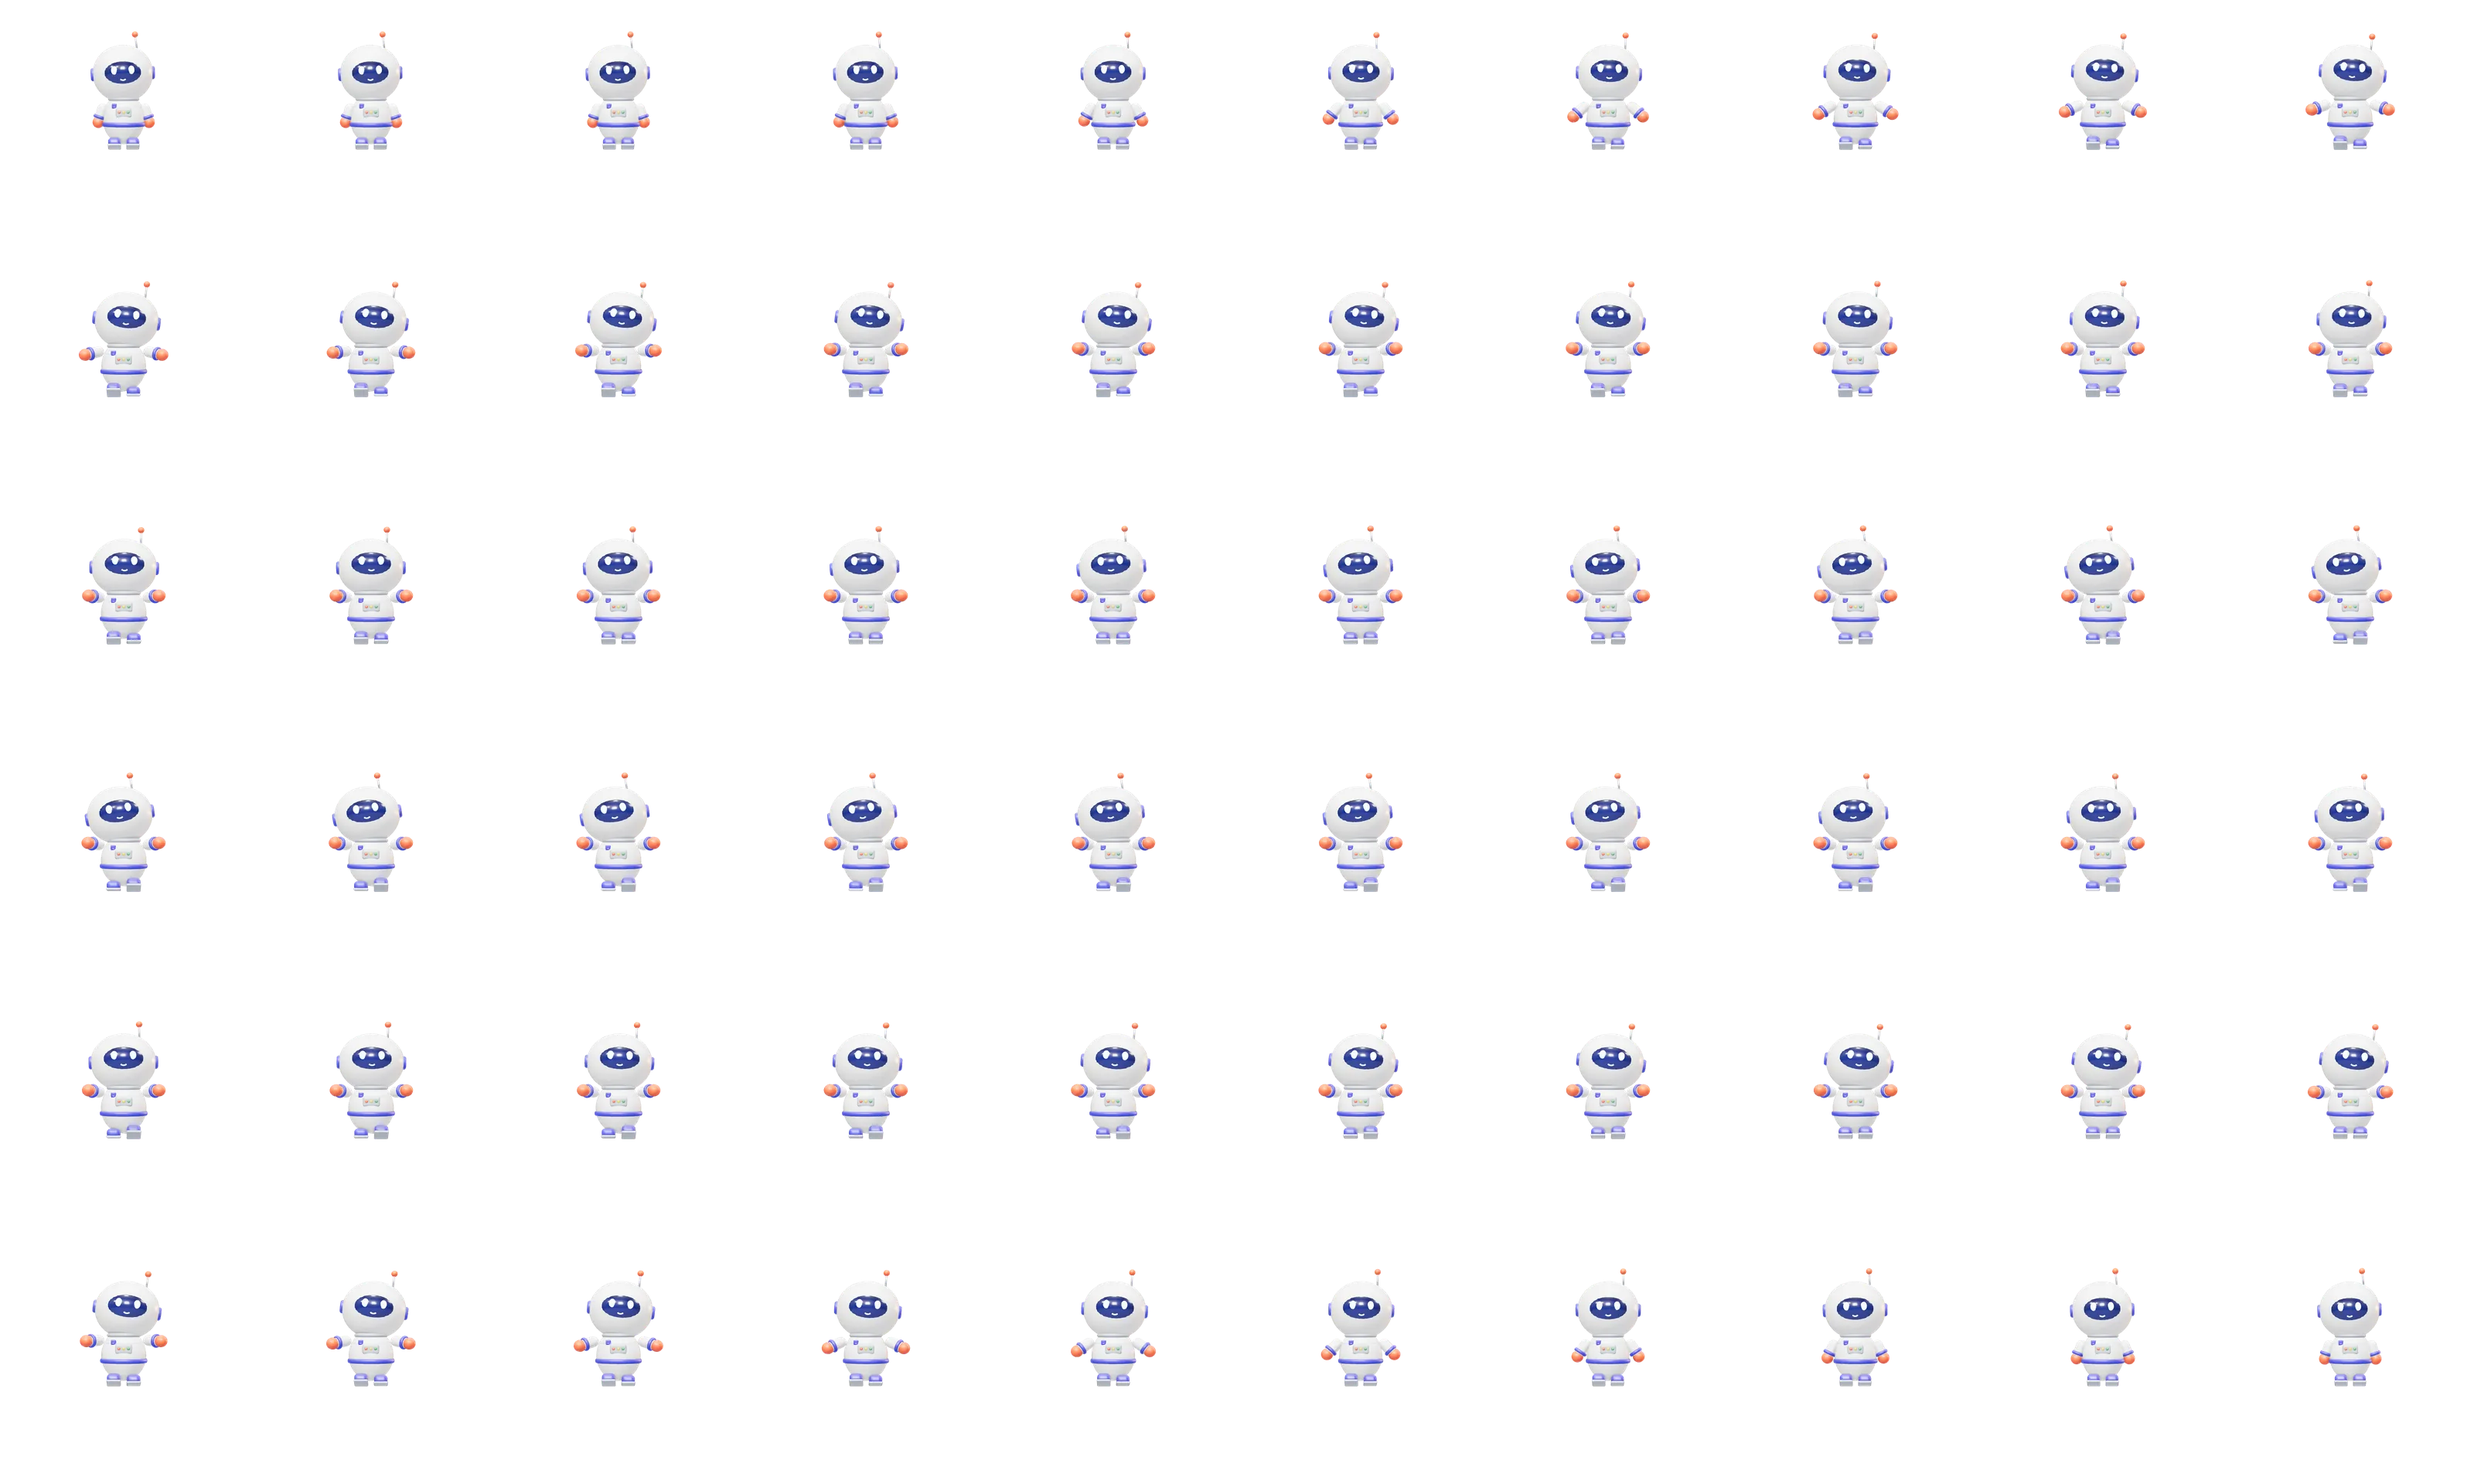
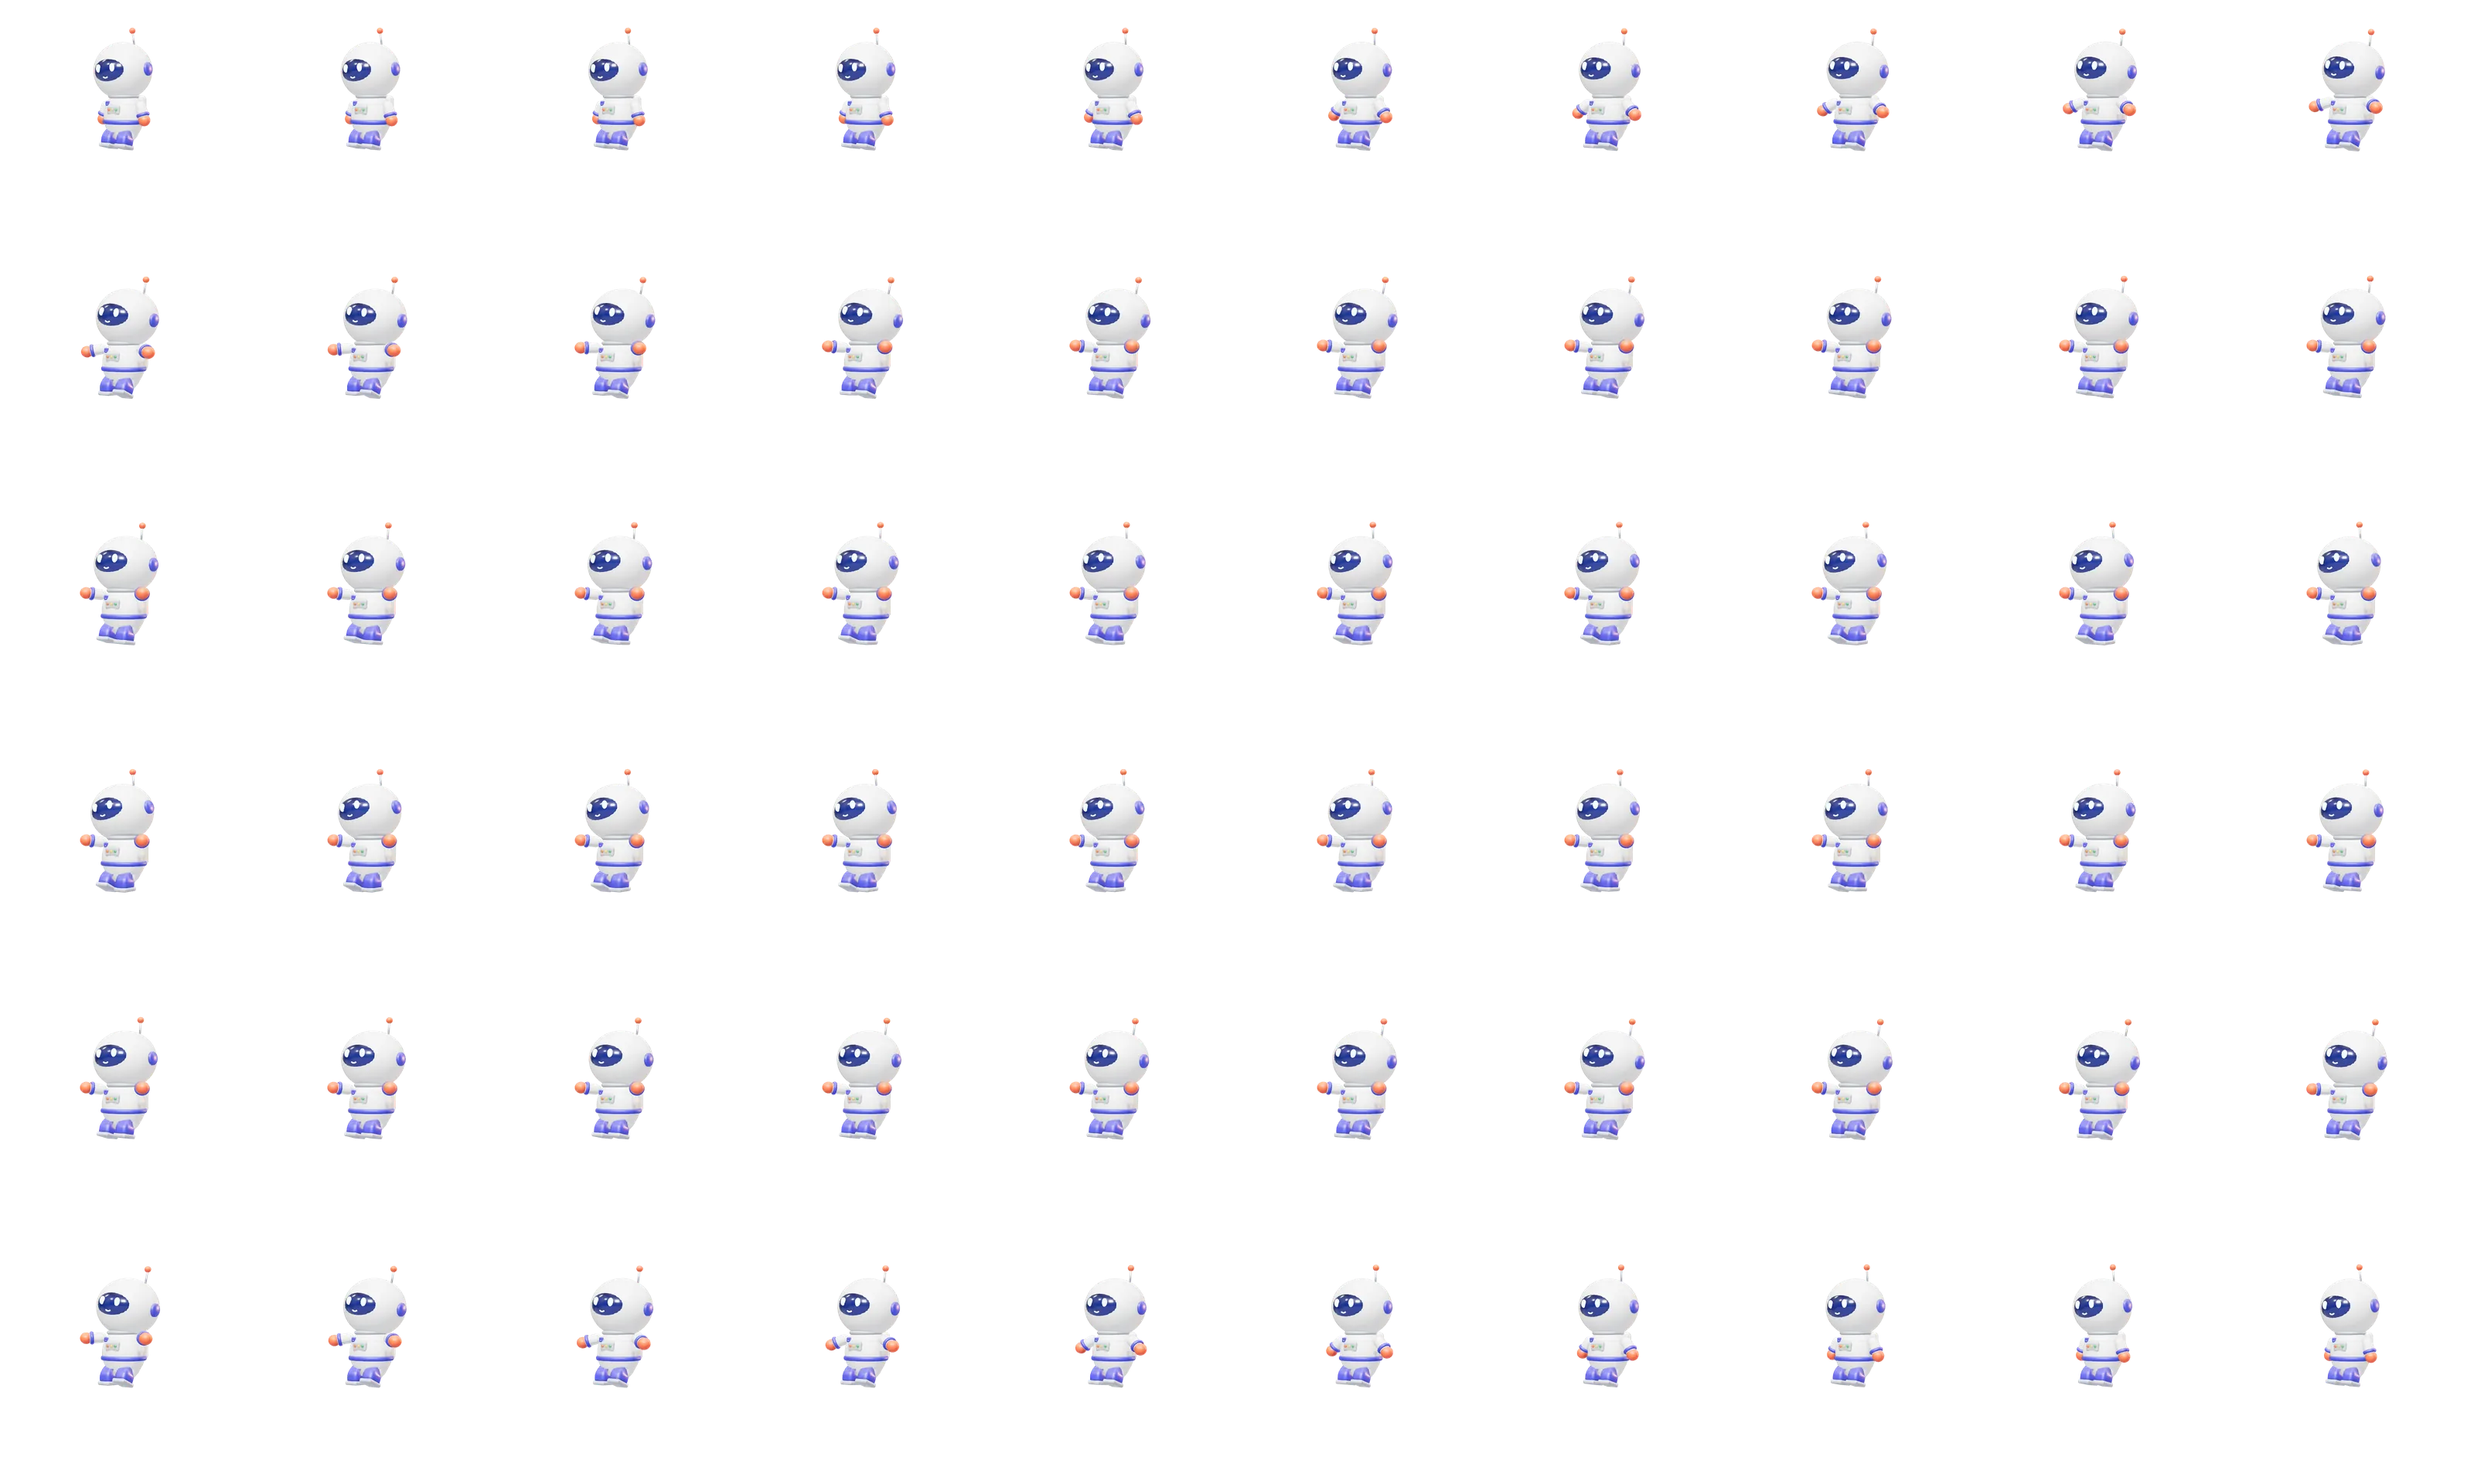
Obchod: kosmonaut skutečně sedí na hraně (stehna dopředu, lýtka dolů, tři čtvrtě pohled)
Dvoukloubové nohy a jejich prodloužení, otočení těla po směru, houpání nohou; kontakt s římsou upraven.

Claude-Session: https://claude.ai/code/session_01HSmZZV7pBVKrH3QkPH55k1

diff --git a/src/components/ShopHeroStage.tsx b/src/components/ShopHeroStage.tsx
@@ -24,7 +24,7 @@ const FEET = 0.58 * D; // výška chodidel ve snímku
 type Key = [number, number, number, number];
 const PATH: Key[] = [
   [0, 200, 215, 1], [0.9, 200, 215, 1], [1.05, 200, 224, 1], [1.22, 200, 150, 1], [1.38, 200, 164, 1], [1.55, 200, 215, 1], [1.7, 200, 224, 1], [1.85, 200, 148, 1],
-  [2.0, 200, 162, 1], [2.2, 200, 215, 1], [4.3, 200, 215, 1], [4.5, 204, 150, 0], [4.9, 210, -80, 0], [5.5, 300, -200, 0], [6.2, 470, 12, 1], [7.0, 470, 12, 1],
+  [2.0, 200, 162, 1], [2.2, 200, 215, 1], [4.3, 200, 215, 1], [4.5, 204, 150, 0], [4.9, 210, -80, 0], [5.5, 300, -200, 0], [6.2, 470, 3, 1], [7.0, 470, 3, 1],
 ];
 
 function pathAt(t: number, keys: Key[] = PATH): [number, number] {
@@ -52,8 +52,8 @@ function pathAt(t: number, keys: Key[] = PATH): [number, number] {
 // Epizody po usednutí (náhodně po klidové smyčce) a reakce na myš. Každá je krátká sekvence 3D snímků (30 fps).
 const sheetsOf = (name: string, counts: number[], cols = 10): Sheet[] => counts.map((n, i) => ({ src: `/home/obchod/ep-${name}-${i + 1}.webp`, n, cols, rows: Math.ceil(n / cols) }));
 type Episode = { sheets: Sheet[]; dur: number; path?: Key[]; fx?: "coins" | "flash" };
-const FPATH: Key[] = [[0, 470, 12, 1], [0.5, 470, 12, 1], [1.2, 462, -70, 0], [2.0, 330, -150, 0], [2.7, 170, -110, 0], [3.1, 120, -30, 0], [3.5, 230, -120, 0], [4.1, 360, -175, 0], [4.8, 455, -110, 0], [5.4, 470, -10, 1], [6.0, 470, 12, 1]];
-const HPATH: Key[] = [[0, 470, 12, 1], [0.3, 470, 12, 1], [1.0, 470, -72, 0], [1.7, 470, -60, 0], [2.1, 470, 12, 1], [2.2, 470, 12, 1]];
+const FPATH: Key[] = [[0, 470, 3, 1], [0.5, 470, 3, 1], [1.2, 462, -70, 0], [2.0, 330, -150, 0], [2.7, 170, -110, 0], [3.1, 120, -30, 0], [3.5, 230, -120, 0], [4.1, 360, -175, 0], [4.8, 455, -110, 0], [5.4, 470, -10, 1], [6.0, 470, 3, 1]];
+const HPATH: Key[] = [[0, 470, 3, 1], [0.3, 470, 3, 1], [1.0, 470, -72, 0], [1.7, 470, -60, 0], [2.1, 470, 3, 1], [2.2, 470, 3, 1]];
 const EPISODES: Record<string, Episode> = {
   yawn: { sheets: sheetsOf("yawn", [90]), dur: 3.0 },
   read: { sheets: sheetsOf("read", [75]), dur: 2.5 },
